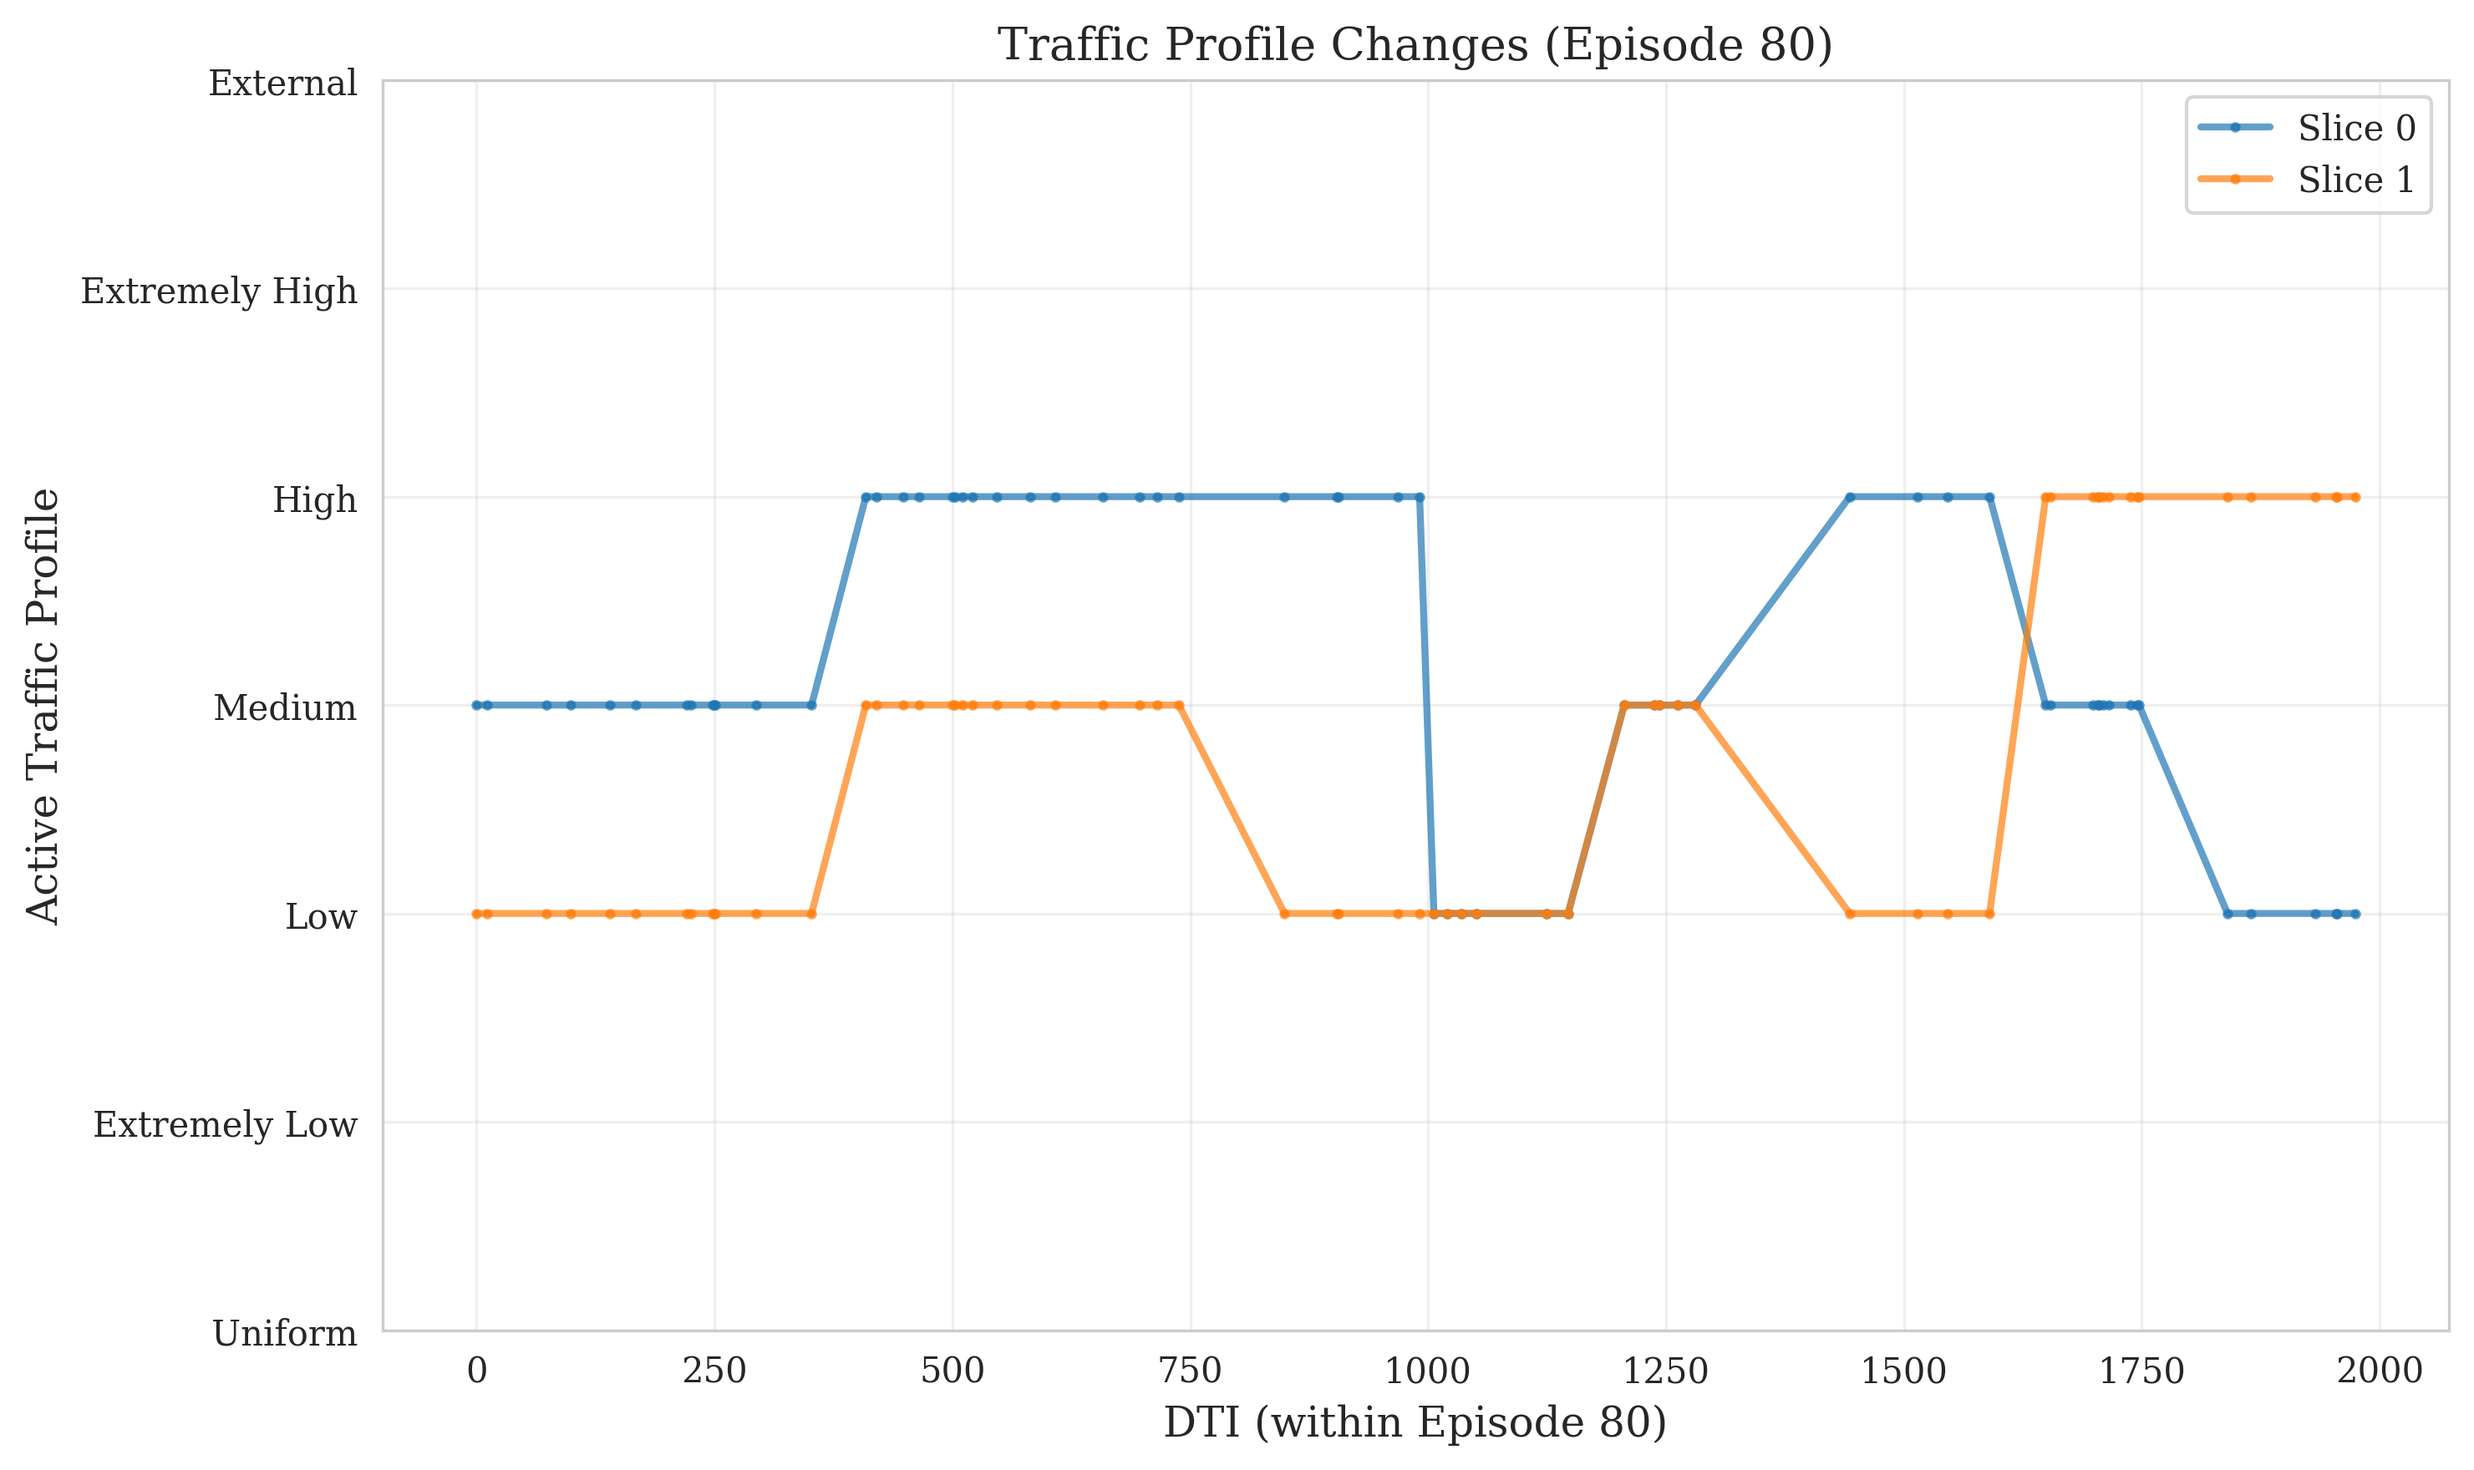
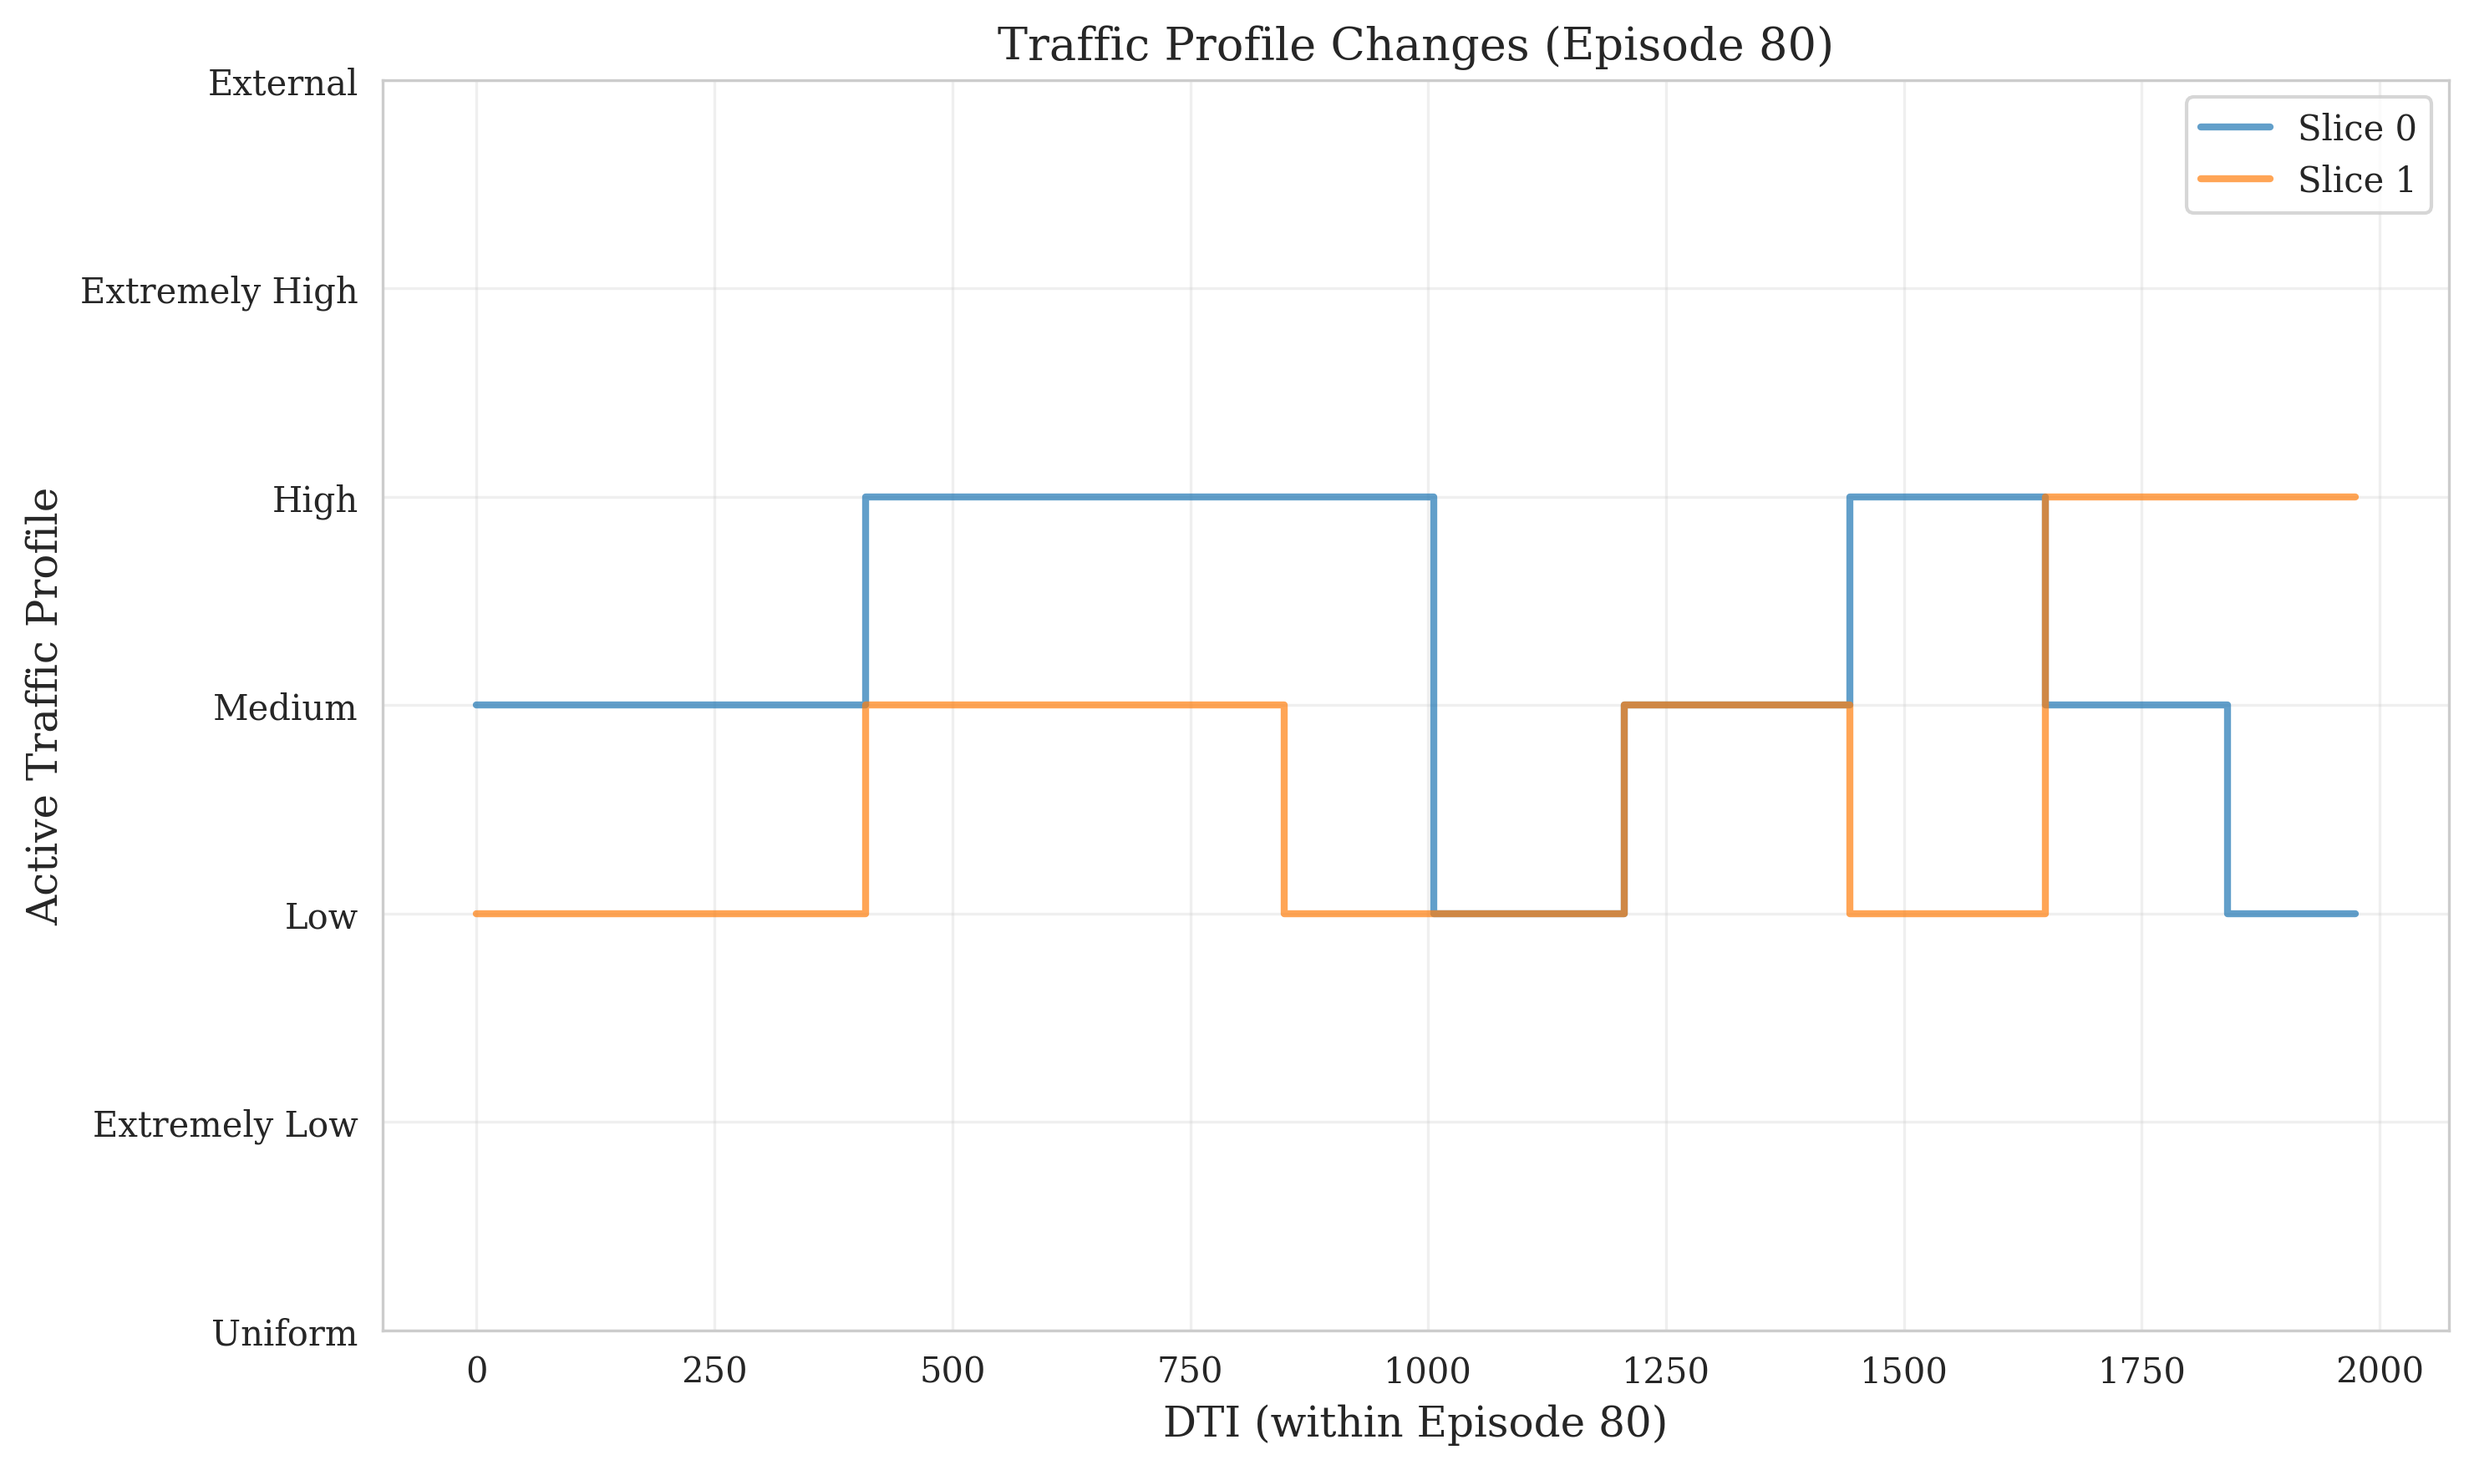
ver2.1

diff --git a/step2_generate_figures.py b/step2_generate_figures.py
@@ -782,8 +782,9 @@ def fig5_dynamic_scenarios(exps_by_cat, output_dir):
                 steps = all_steps[mask] - ep_start_dti  # Relative to episode start
                 values = all_values[mask]
                 
-                ax.plot(steps, values, label=f'Slice {slice_num}', 
-                       alpha=0.7, linewidth=2, marker='o', markersize=2)
+                # Use step plot for categorical data (profiles are discrete states)
+                ax.step(steps, values, where='post', label=f'Slice {slice_num}', 
+                       alpha=0.7, linewidth=2)
             
             ax.set_xlabel('DTI (within Episode 80)')
             ax.set_ylabel('Active Traffic Profile')
@@ -877,6 +878,119 @@ def fig5_dynamic_scenarios(exps_by_cat, output_dir):
                         dpi=FIGURE_DPI, bbox_inches='tight')
             plt.close()
             print(f"  ✓ fig5d_dynamic_allocation_periods.{FIGURE_FORMAT} ({num_periods} periods)")
+    
+    # ========================================================================
+    # Figure 5e: Active profiles for EPISODE 160
+    # ========================================================================
+    if 'ep160_action_slice0' in data:
+        fig, ax = plt.subplots(figsize=(10, 6))
+        
+        if 'dti_active_profile_slice0' in data and 'dti_active_profile_slice1' in data:
+            # Episode 160
+            ep_start_dti = 160 * 2000
+            ep_end_dti = 161 * 2000
+            
+            profile_names = {
+                0: 'Uniform',
+                1: 'Extremely Low',
+                2: 'Low',
+                3: 'Medium',
+                4: 'High',
+                5: 'Extremely High',
+                6: 'External'
+            }
+            
+            for key in ['dti_active_profile_slice0', 'dti_active_profile_slice1']:
+                slice_num = key.split('slice')[-1]
+                all_steps = np.array(data[key]['steps'])
+                all_values = np.array(data[key]['values'])
+                
+                # Filter for episode 160
+                mask = (all_steps >= ep_start_dti) & (all_steps < ep_end_dti)
+                steps = all_steps[mask] - ep_start_dti  # Relative to episode start
+                values = all_values[mask]
+                
+                # Use step plot for categorical data
+                ax.step(steps, values, where='post', label=f'Slice {slice_num}', 
+                       alpha=0.7, linewidth=2)
+            
+            ax.set_xlabel('DTI (within Episode 160)')
+            ax.set_ylabel('Active Traffic Profile')
+            ax.set_title('Traffic Profile Changes (Episode 160)')
+            ax.set_yticks(list(profile_names.keys()))
+            ax.set_yticklabels(list(profile_names.values()))
+            ax.legend()
+            ax.grid(True, alpha=0.3)
+            
+            plt.tight_layout()
+            plt.savefig(os.path.join(output_dir, f'fig5e_dynamic_profiles_ep160.{FIGURE_FORMAT}'), 
+                        dpi=FIGURE_DPI, bbox_inches='tight')
+            plt.close()
+            print(f"  ✓ fig5e_dynamic_profiles_ep160.{FIGURE_FORMAT}")
+    
+    # ========================================================================
+    # Figure 5f: Box plots for MULTIPLE PERIODS (episode 160)
+    # ========================================================================
+    if 'ep160_action_slice0' in data and 'ep160_action_slice1' in data:
+        fig, ax = plt.subplots(figsize=(14, 6))
+        
+        slice0_data = data['ep160_action_slice0']['values']
+        slice1_data = data['ep160_action_slice1']['values']
+        
+        period_size = 200
+        num_periods = len(slice0_data) // period_size
+        
+        box_data = []
+        labels = []
+        positions = []
+        colors = []
+        
+        for period in range(num_periods):
+            start_idx = period * period_size
+            end_idx = (period + 1) * period_size
+            
+            # Slice 0
+            box_data.append(slice0_data[start_idx:end_idx])
+            labels.append(f'{start_idx}-{end_idx}\nS0')
+            positions.append(period * 2.5)
+            colors.append('lightblue')
+            
+            # Slice 1
+            box_data.append(slice1_data[start_idx:end_idx])
+            labels.append(f'{start_idx}-{end_idx}\nS1')
+            positions.append(period * 2.5 + 1)
+            colors.append('lightcoral')
+        
+        bp = ax.boxplot(box_data, positions=positions, labels=labels,
+                       patch_artist=True, widths=0.8)
+        
+        for patch, color in zip(bp['boxes'], colors):
+            patch.set_facecolor(color)
+            patch.set_alpha(0.7)
+        
+        for median in bp['medians']:
+            median.set_color('red')
+            median.set_linewidth(2)
+        
+        ax.set_xlabel('DTI Range within Episode 160')
+        ax.set_ylabel(LABEL_RBS)
+        ax.set_title('Allocation Distribution by Period (Episode 160, Dynamic)')
+        ax.grid(True, alpha=0.3, axis='y')
+        plt.xticks(rotation=45, ha='right', fontsize=8)
+        
+        # Add legend
+        from matplotlib.patches import Patch
+        legend_elements = [
+            Patch(facecolor='lightblue', alpha=0.7, label='Slice 0'),
+            Patch(facecolor='lightcoral', alpha=0.7, label='Slice 1')
+        ]
+        ax.legend(handles=legend_elements, loc='upper right')
+        
+        plt.tight_layout()
+        plt.savefig(os.path.join(output_dir, f'fig5f_dynamic_allocation_periods_ep160.{FIGURE_FORMAT}'), 
+                    dpi=FIGURE_DPI, bbox_inches='tight')
+        plt.close()
+        print(f"  ✓ fig5f_dynamic_allocation_periods_ep160.{FIGURE_FORMAT} ({num_periods} periods)")
 
 
 def fig_actor_loss_comparison(experiments, output_dir):
